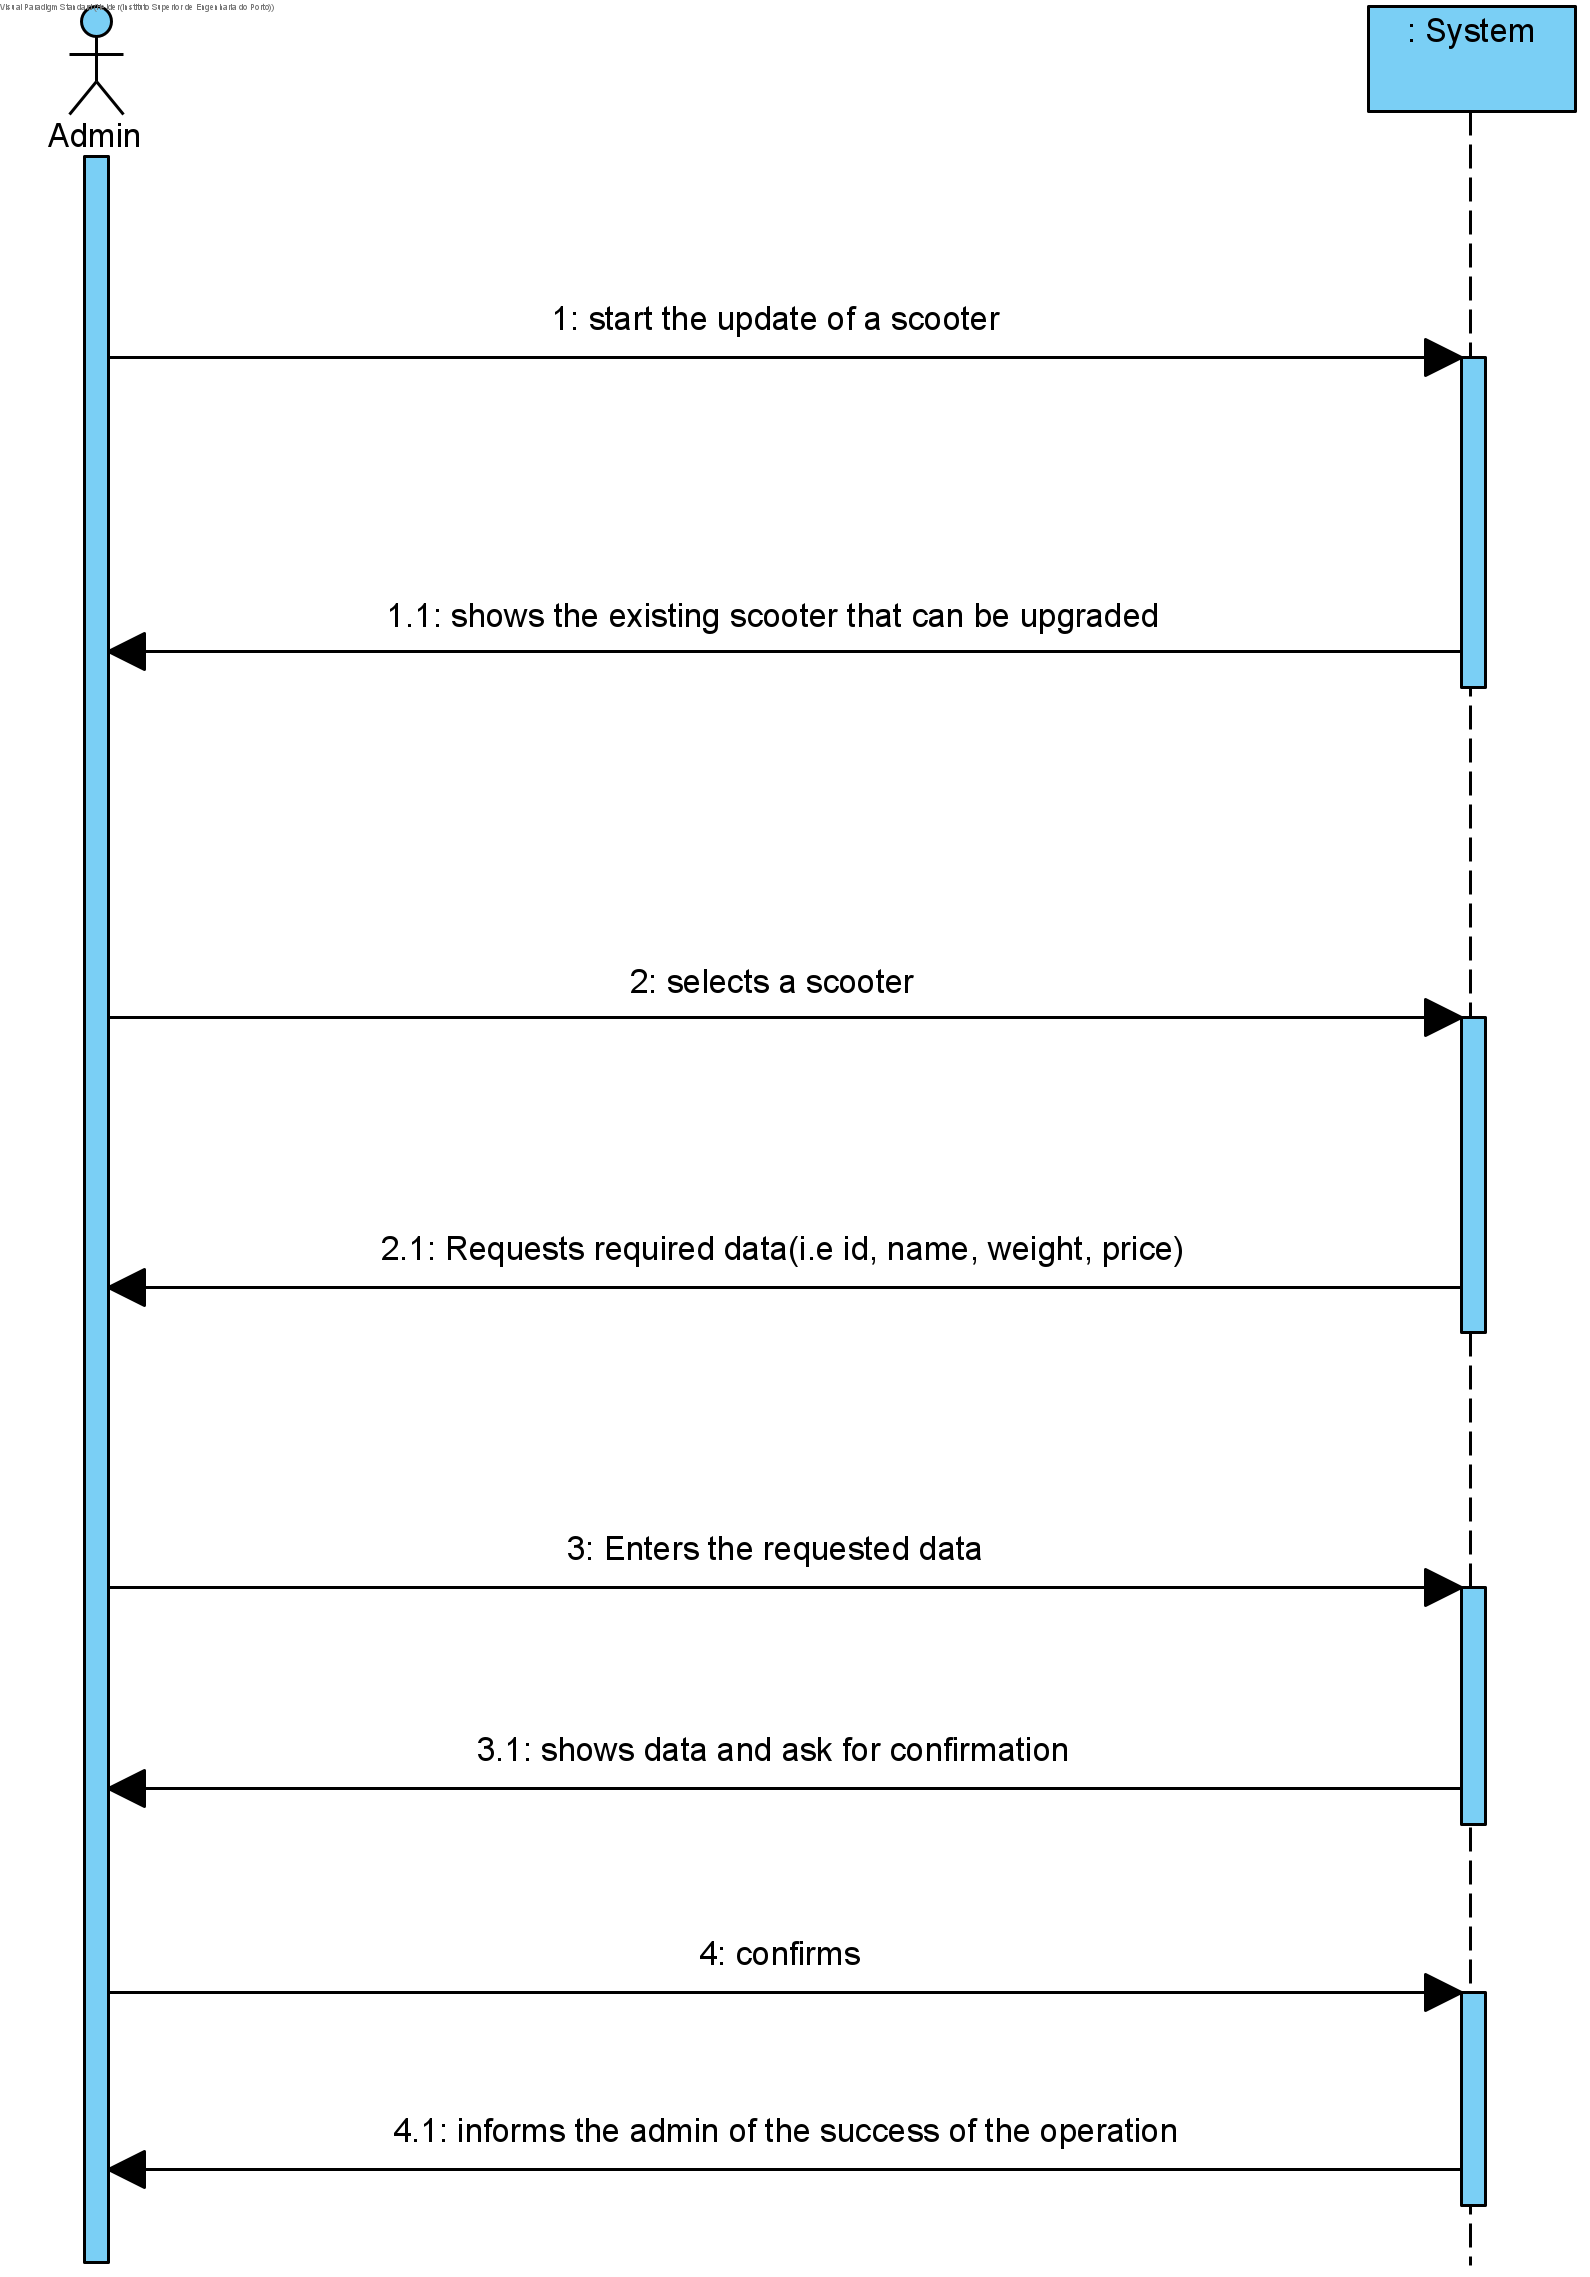
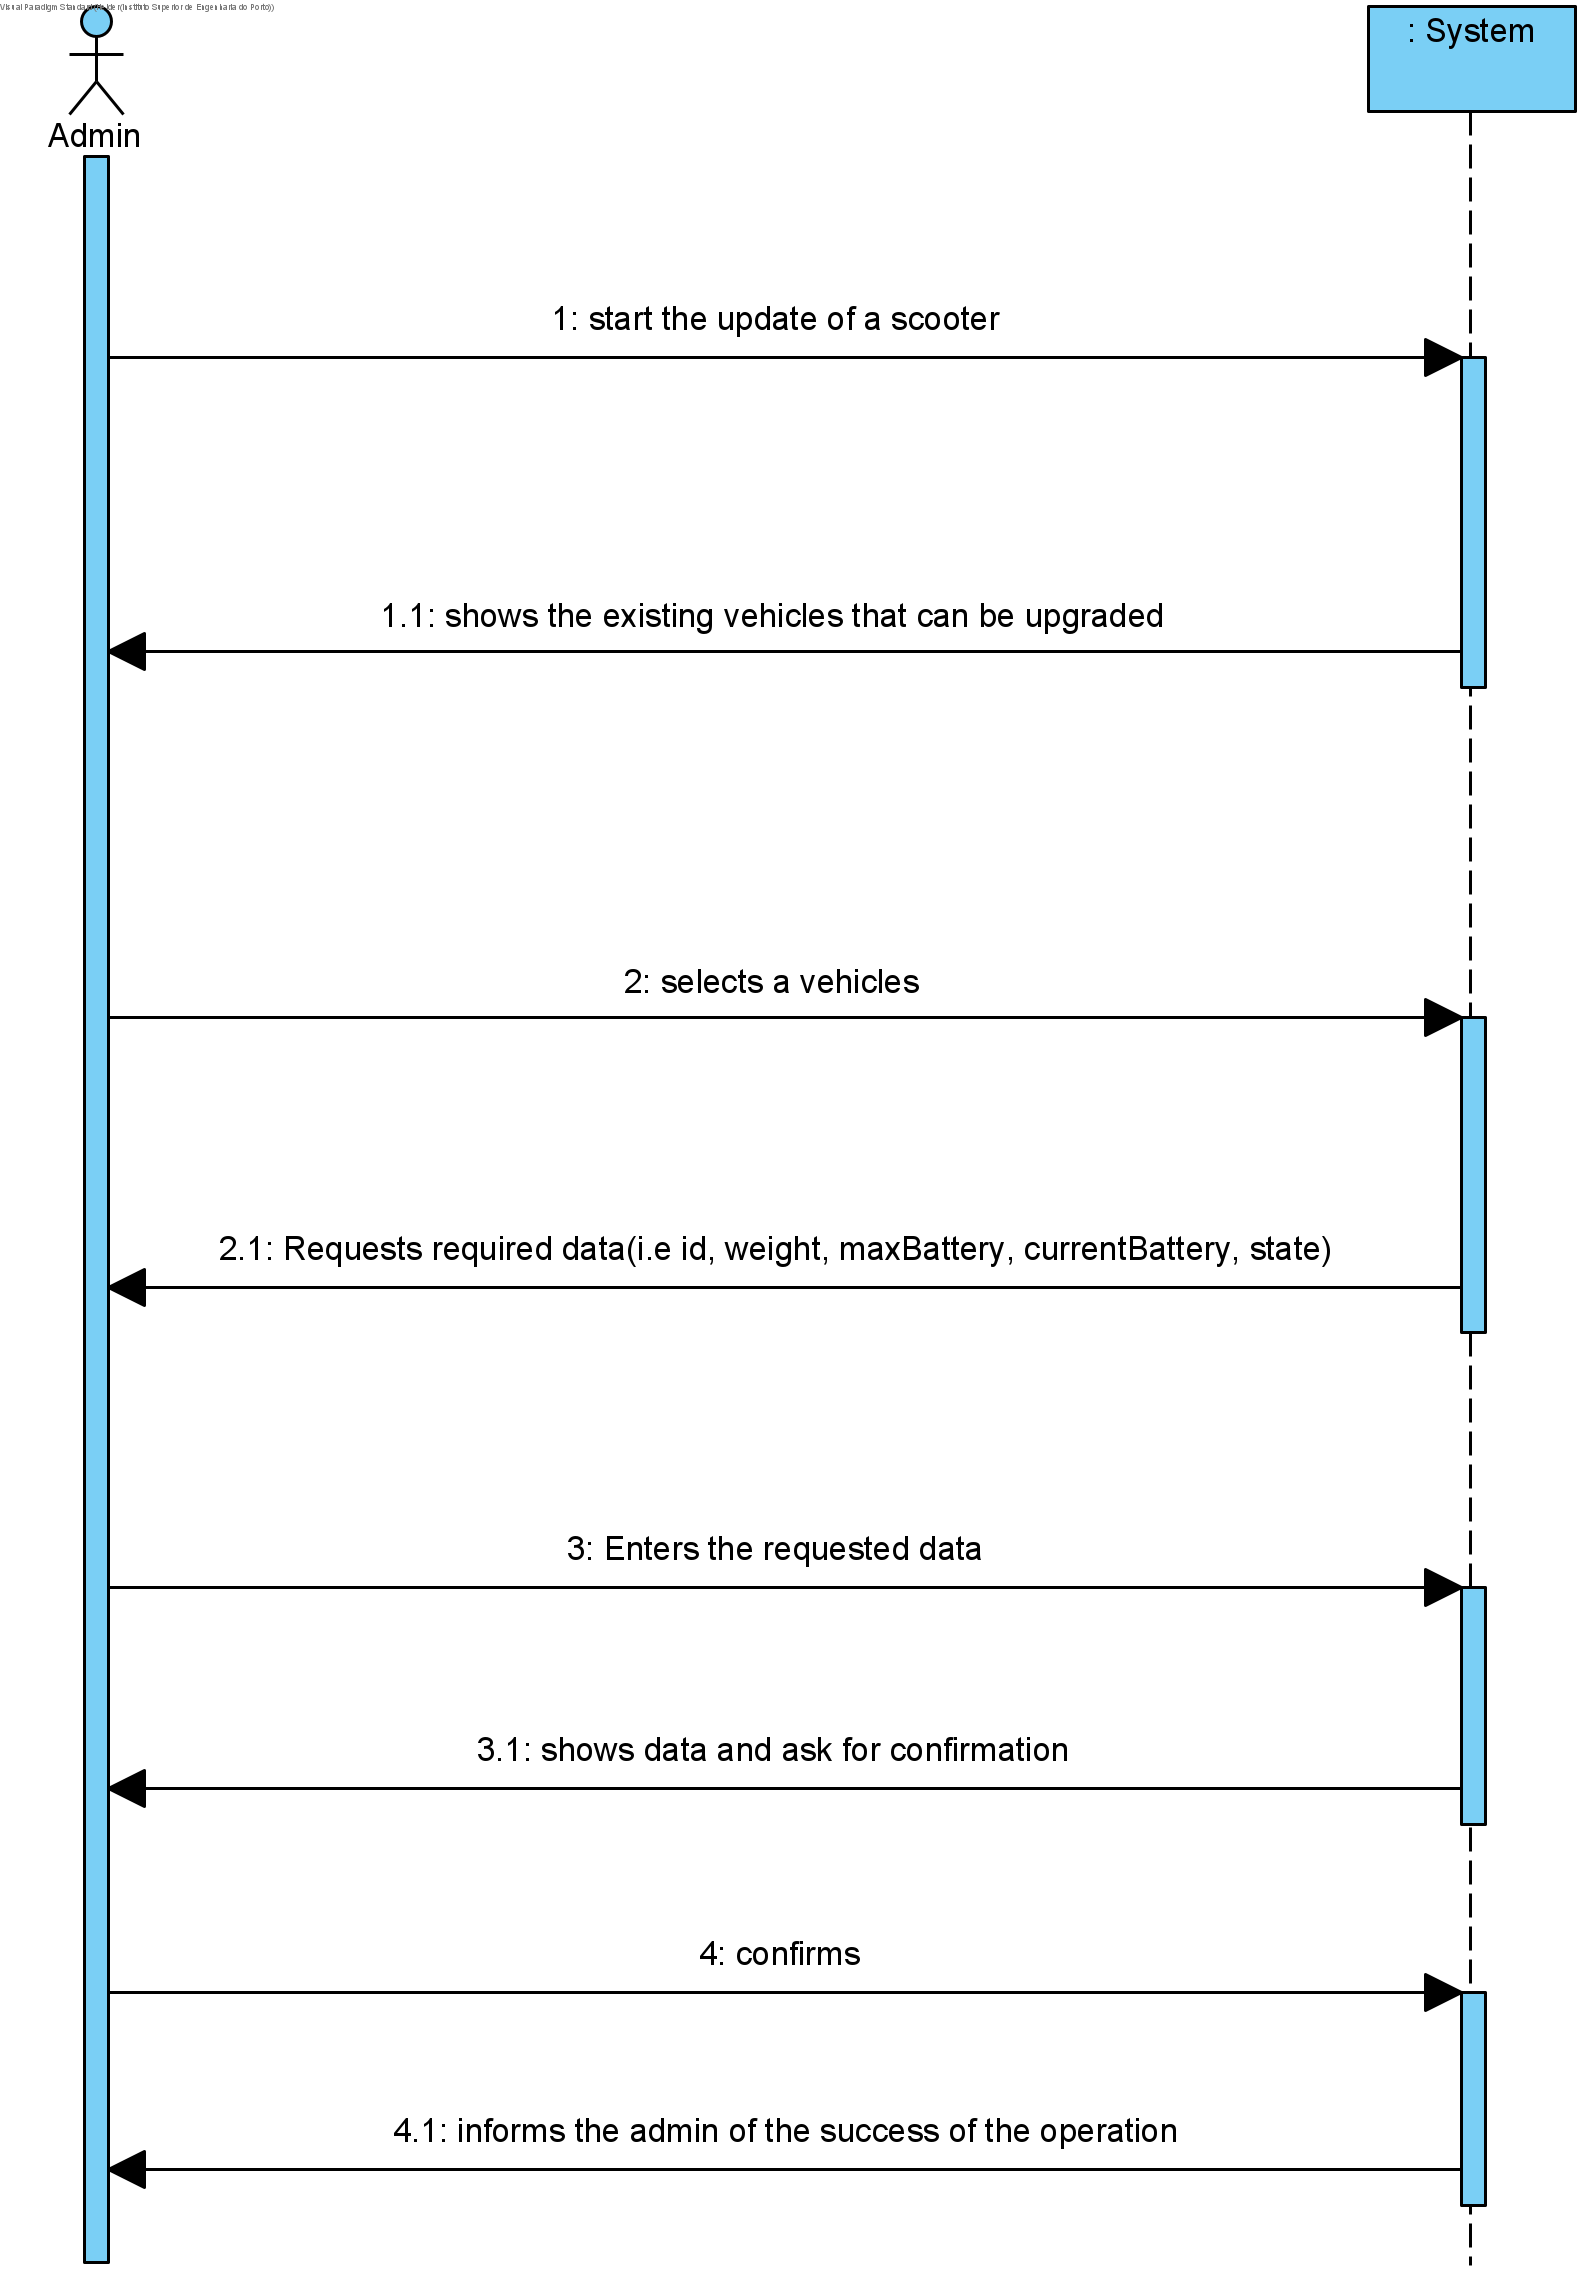
MEN09-206 #close Atualizar Scooter [Analysis]

diff --git a/documentation/use_cases/UC04/UC4_UpdateScooter.md b/documentation/use_cases/UC04/UC4_UpdateScooter.md
@@ -1,11 +1,11 @@
-# UC4 - Atualizar Scooter
+# UC4 - Update Scooter
 
 ## 1. Requirements Engineering
 
 The admin start the update of a scooter. The system shows the existing vehicles that can be upgraded. The admin selects a scooter. The system requests required data. The admin enters requested data. The system shows data and ask for confirmation. The admin confirms. The system informs the admin of the succes of the operation.
 
 ### SSD
-![UC4_SSD.jpg](UC4_SSD.jpg)
+![UC4_SSD.png](UC4_SSD.png)
 
 #### Main Actor
 
